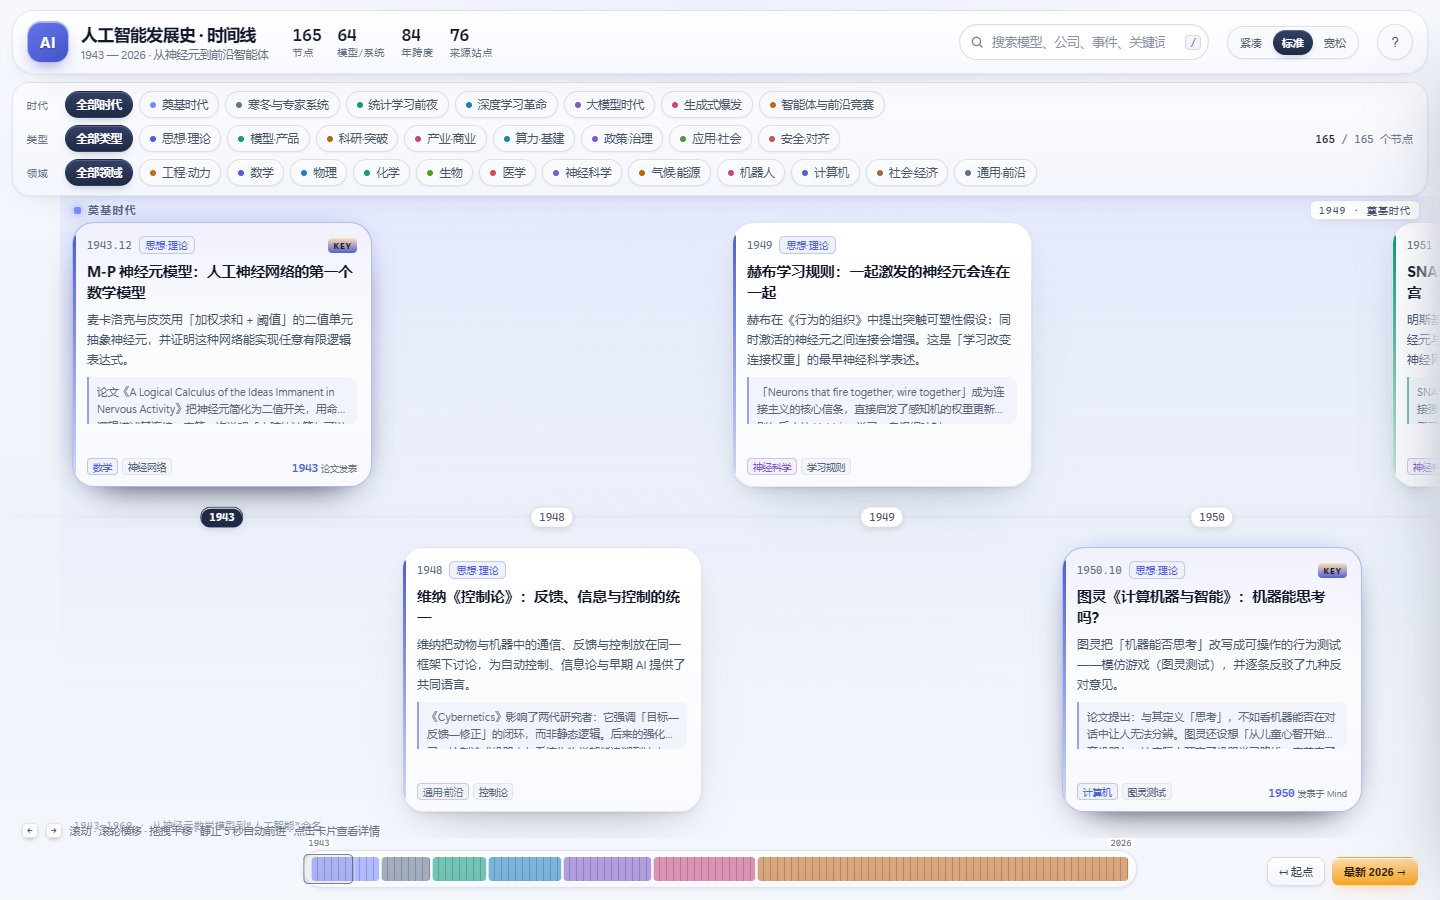
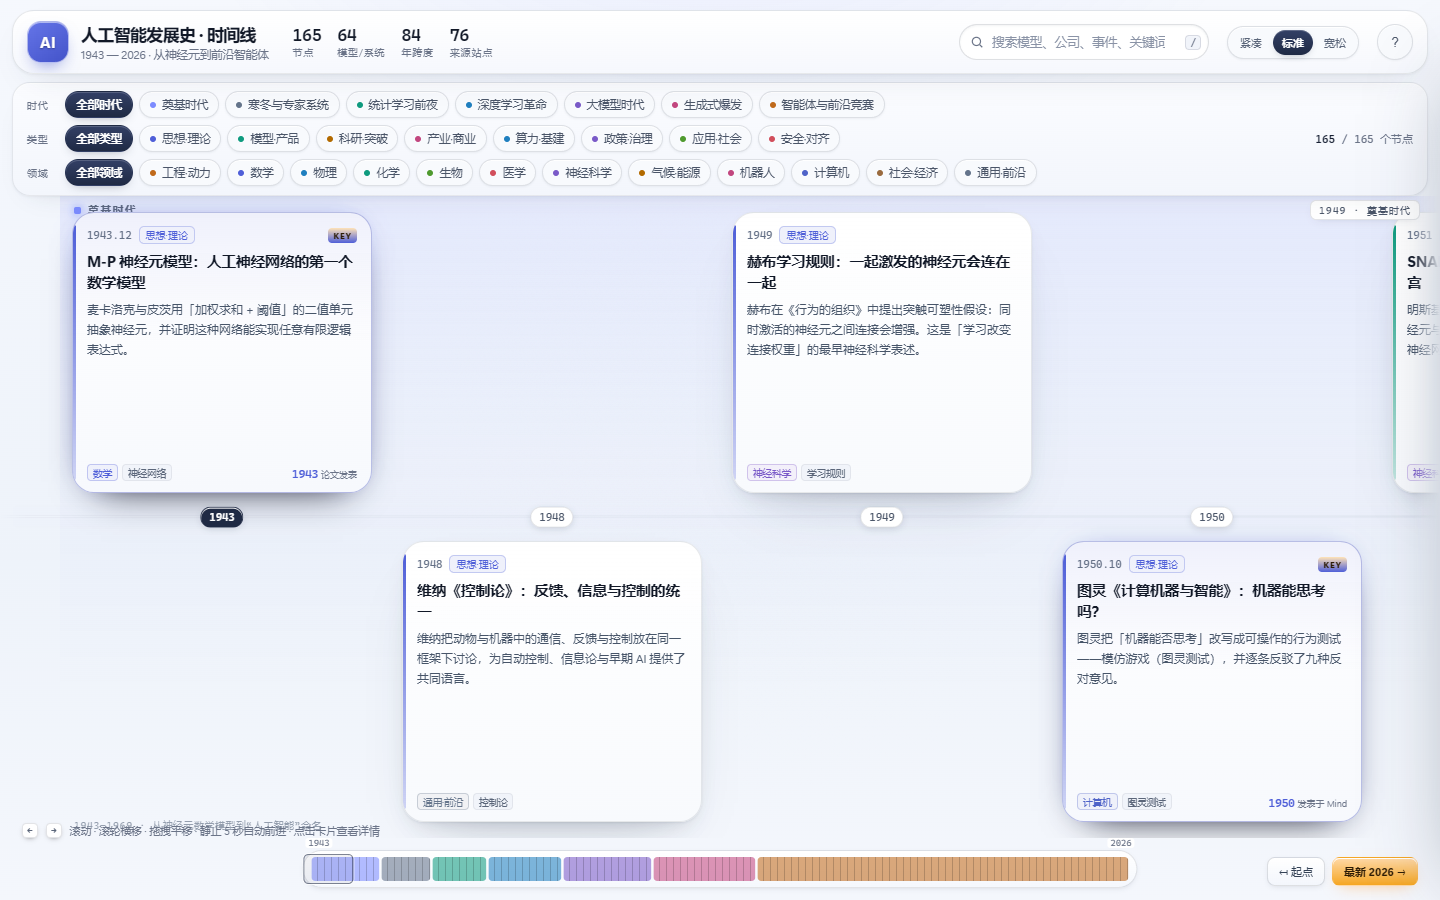
fix: keep card footers visible and year labels above cards

diff --git a/AI发展史时间线.html b/AI发展史时间线.html
@@ -992,6 +992,17 @@ body::after{opacity:.025;mix-blend-mode:multiply}
 .extlink:hover{background:#eef2f9;color:#111827;border-color:rgba(23,35,58,.2)}
 .extlink.bili{background:#fff0f5;color:#b02a5b;border-color:#f0b8cc}.extlink.bili:hover{background:#ffe5ef;border-color:#e58cae}
 .extlink .dom{color:#7a8396}
+.card{height:calc(50% - 40px);max-height:340px}
+.card.above{bottom:calc(50% + 24px)}
+.card.below{top:calc(50% + 24px)}
+.card p{flex:1 1 auto;min-height:0;overflow:hidden}
+.card .note{flex:0 1 auto;min-height:0;overflow:hidden}
+.card .cfoot{flex:none}
+.year{z-index:20}
+@media (max-height:900px){
+  .card .note{display:none}
+  .card p{-webkit-line-clamp:4}
+}
 </style>
 </head>
 <body>

diff --git a/index.html b/index.html
@@ -992,6 +992,17 @@ body::after{opacity:.025;mix-blend-mode:multiply}
 .extlink:hover{background:#eef2f9;color:#111827;border-color:rgba(23,35,58,.2)}
 .extlink.bili{background:#fff0f5;color:#b02a5b;border-color:#f0b8cc}.extlink.bili:hover{background:#ffe5ef;border-color:#e58cae}
 .extlink .dom{color:#7a8396}
+.card{height:calc(50% - 40px);max-height:340px}
+.card.above{bottom:calc(50% + 24px)}
+.card.below{top:calc(50% + 24px)}
+.card p{flex:1 1 auto;min-height:0;overflow:hidden}
+.card .note{flex:0 1 auto;min-height:0;overflow:hidden}
+.card .cfoot{flex:none}
+.year{z-index:20}
+@media (max-height:900px){
+  .card .note{display:none}
+  .card p{-webkit-line-clamp:4}
+}
 </style>
 </head>
 <body>

diff --git a/src/template.html b/src/template.html
@@ -992,6 +992,17 @@ body::after{opacity:.025;mix-blend-mode:multiply}
 .extlink:hover{background:#eef2f9;color:#111827;border-color:rgba(23,35,58,.2)}
 .extlink.bili{background:#fff0f5;color:#b02a5b;border-color:#f0b8cc}.extlink.bili:hover{background:#ffe5ef;border-color:#e58cae}
 .extlink .dom{color:#7a8396}
+.card{height:calc(50% - 40px);max-height:340px}
+.card.above{bottom:calc(50% + 24px)}
+.card.below{top:calc(50% + 24px)}
+.card p{flex:1 1 auto;min-height:0;overflow:hidden}
+.card .note{flex:0 1 auto;min-height:0;overflow:hidden}
+.card .cfoot{flex:none}
+.year{z-index:20}
+@media (max-height:900px){
+  .card .note{display:none}
+  .card p{-webkit-line-clamp:4}
+}
 </style>
 </head>
 <body>
